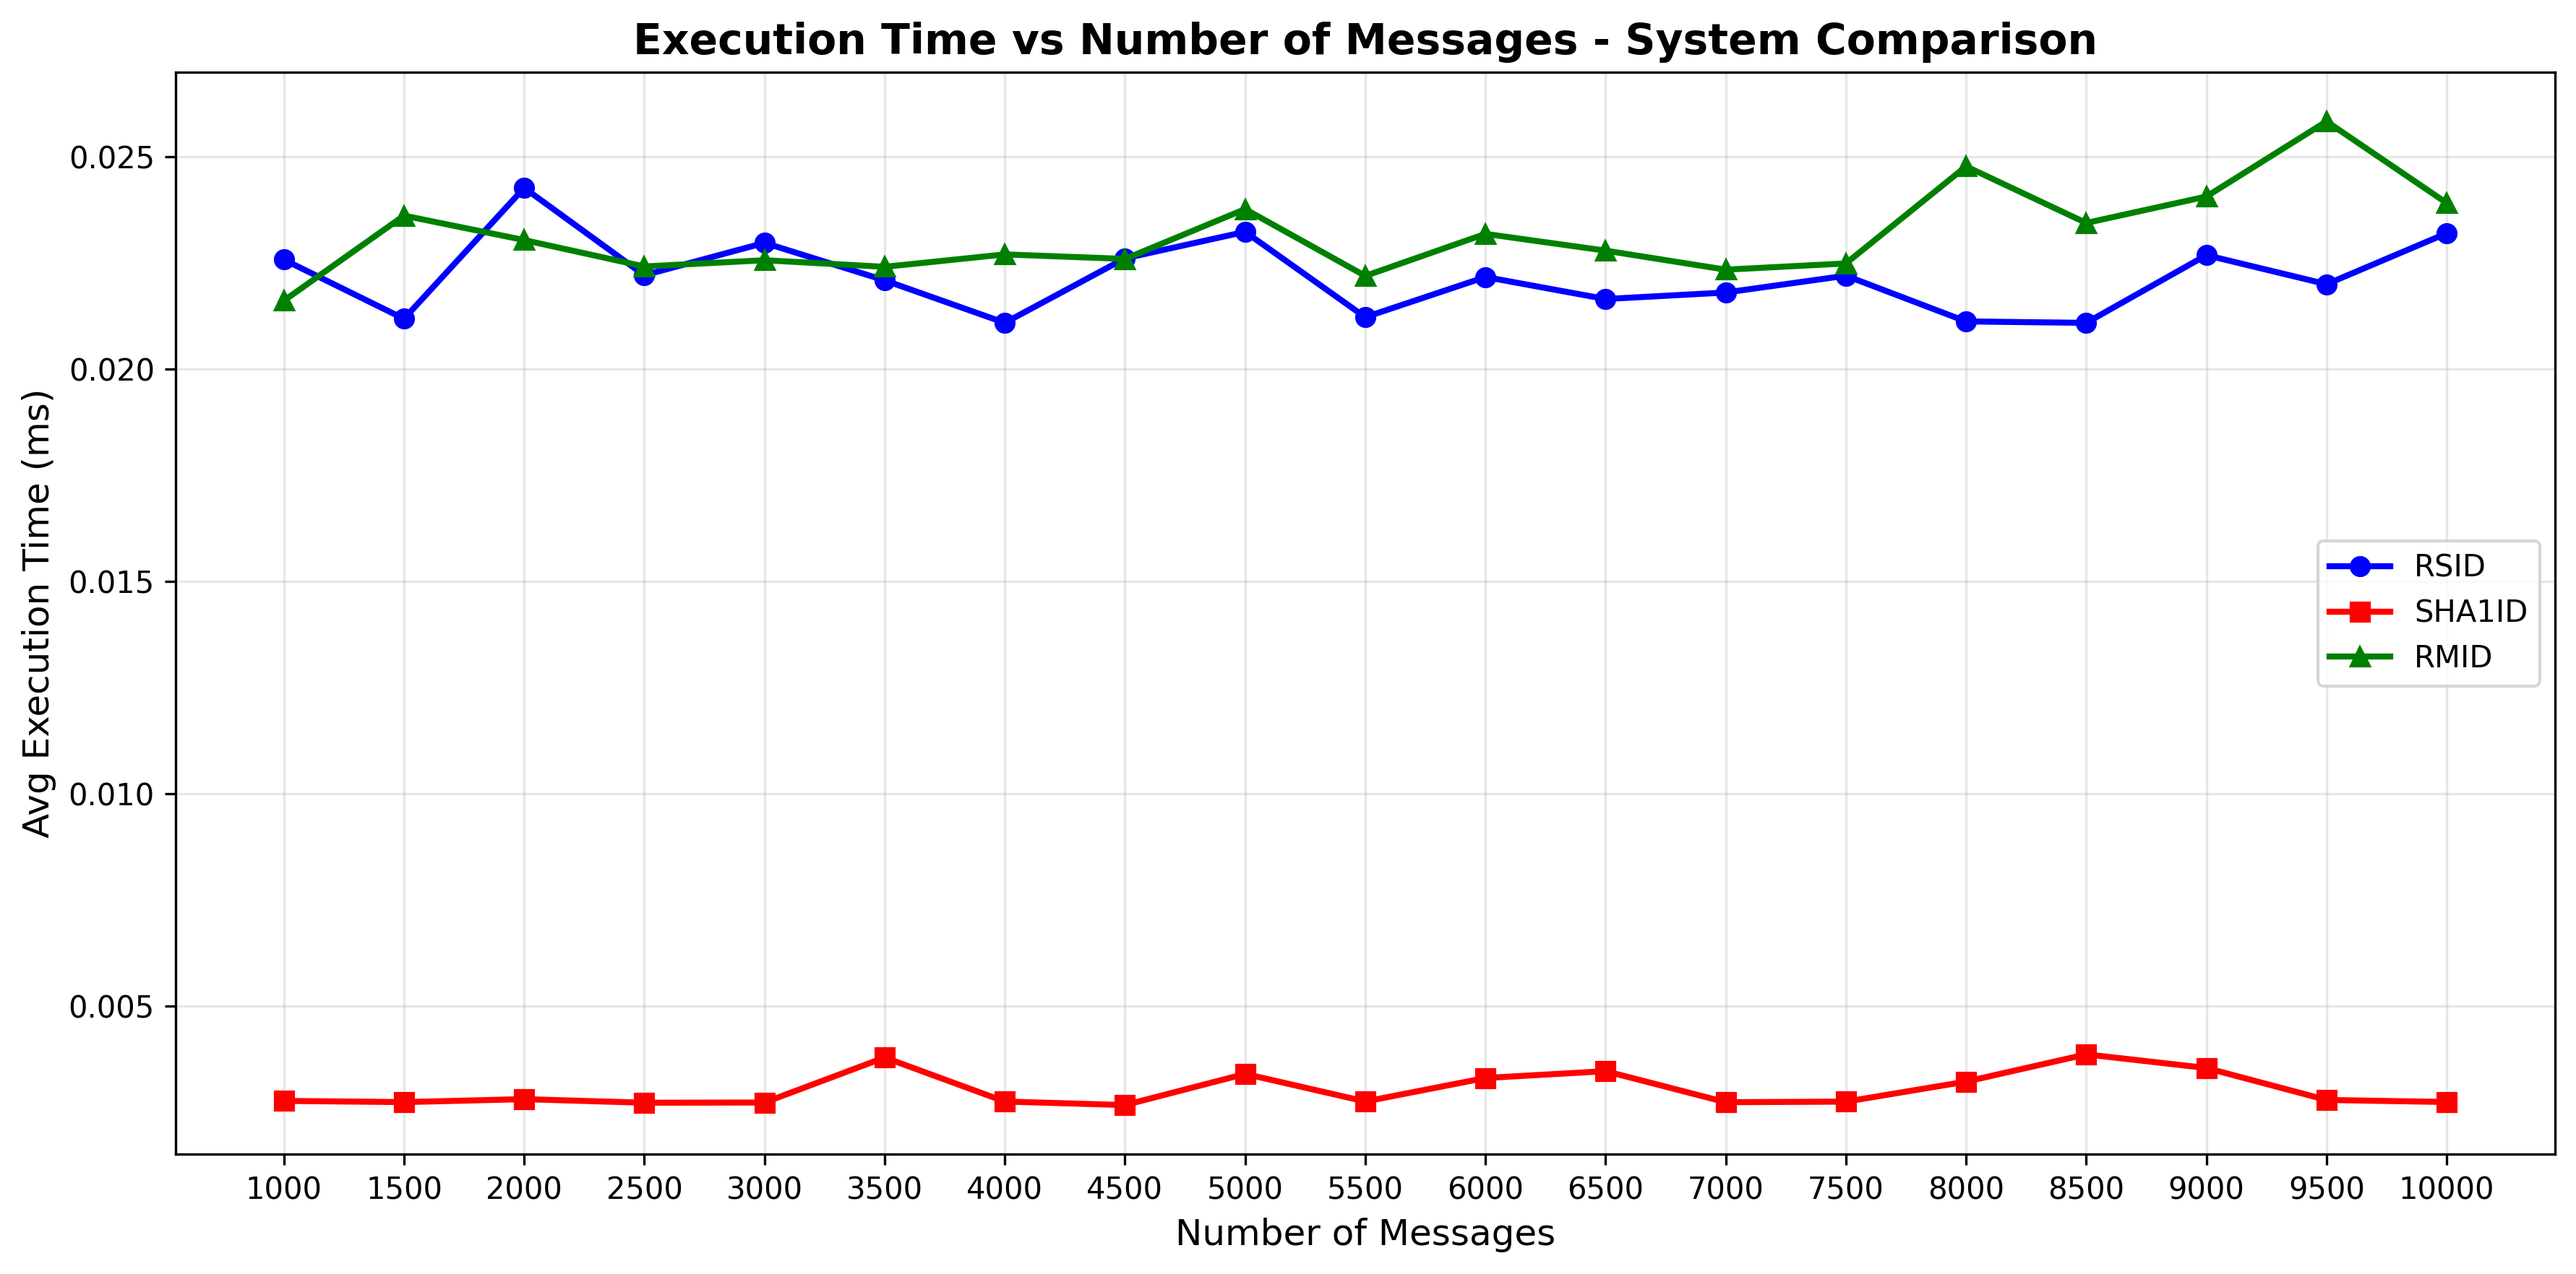
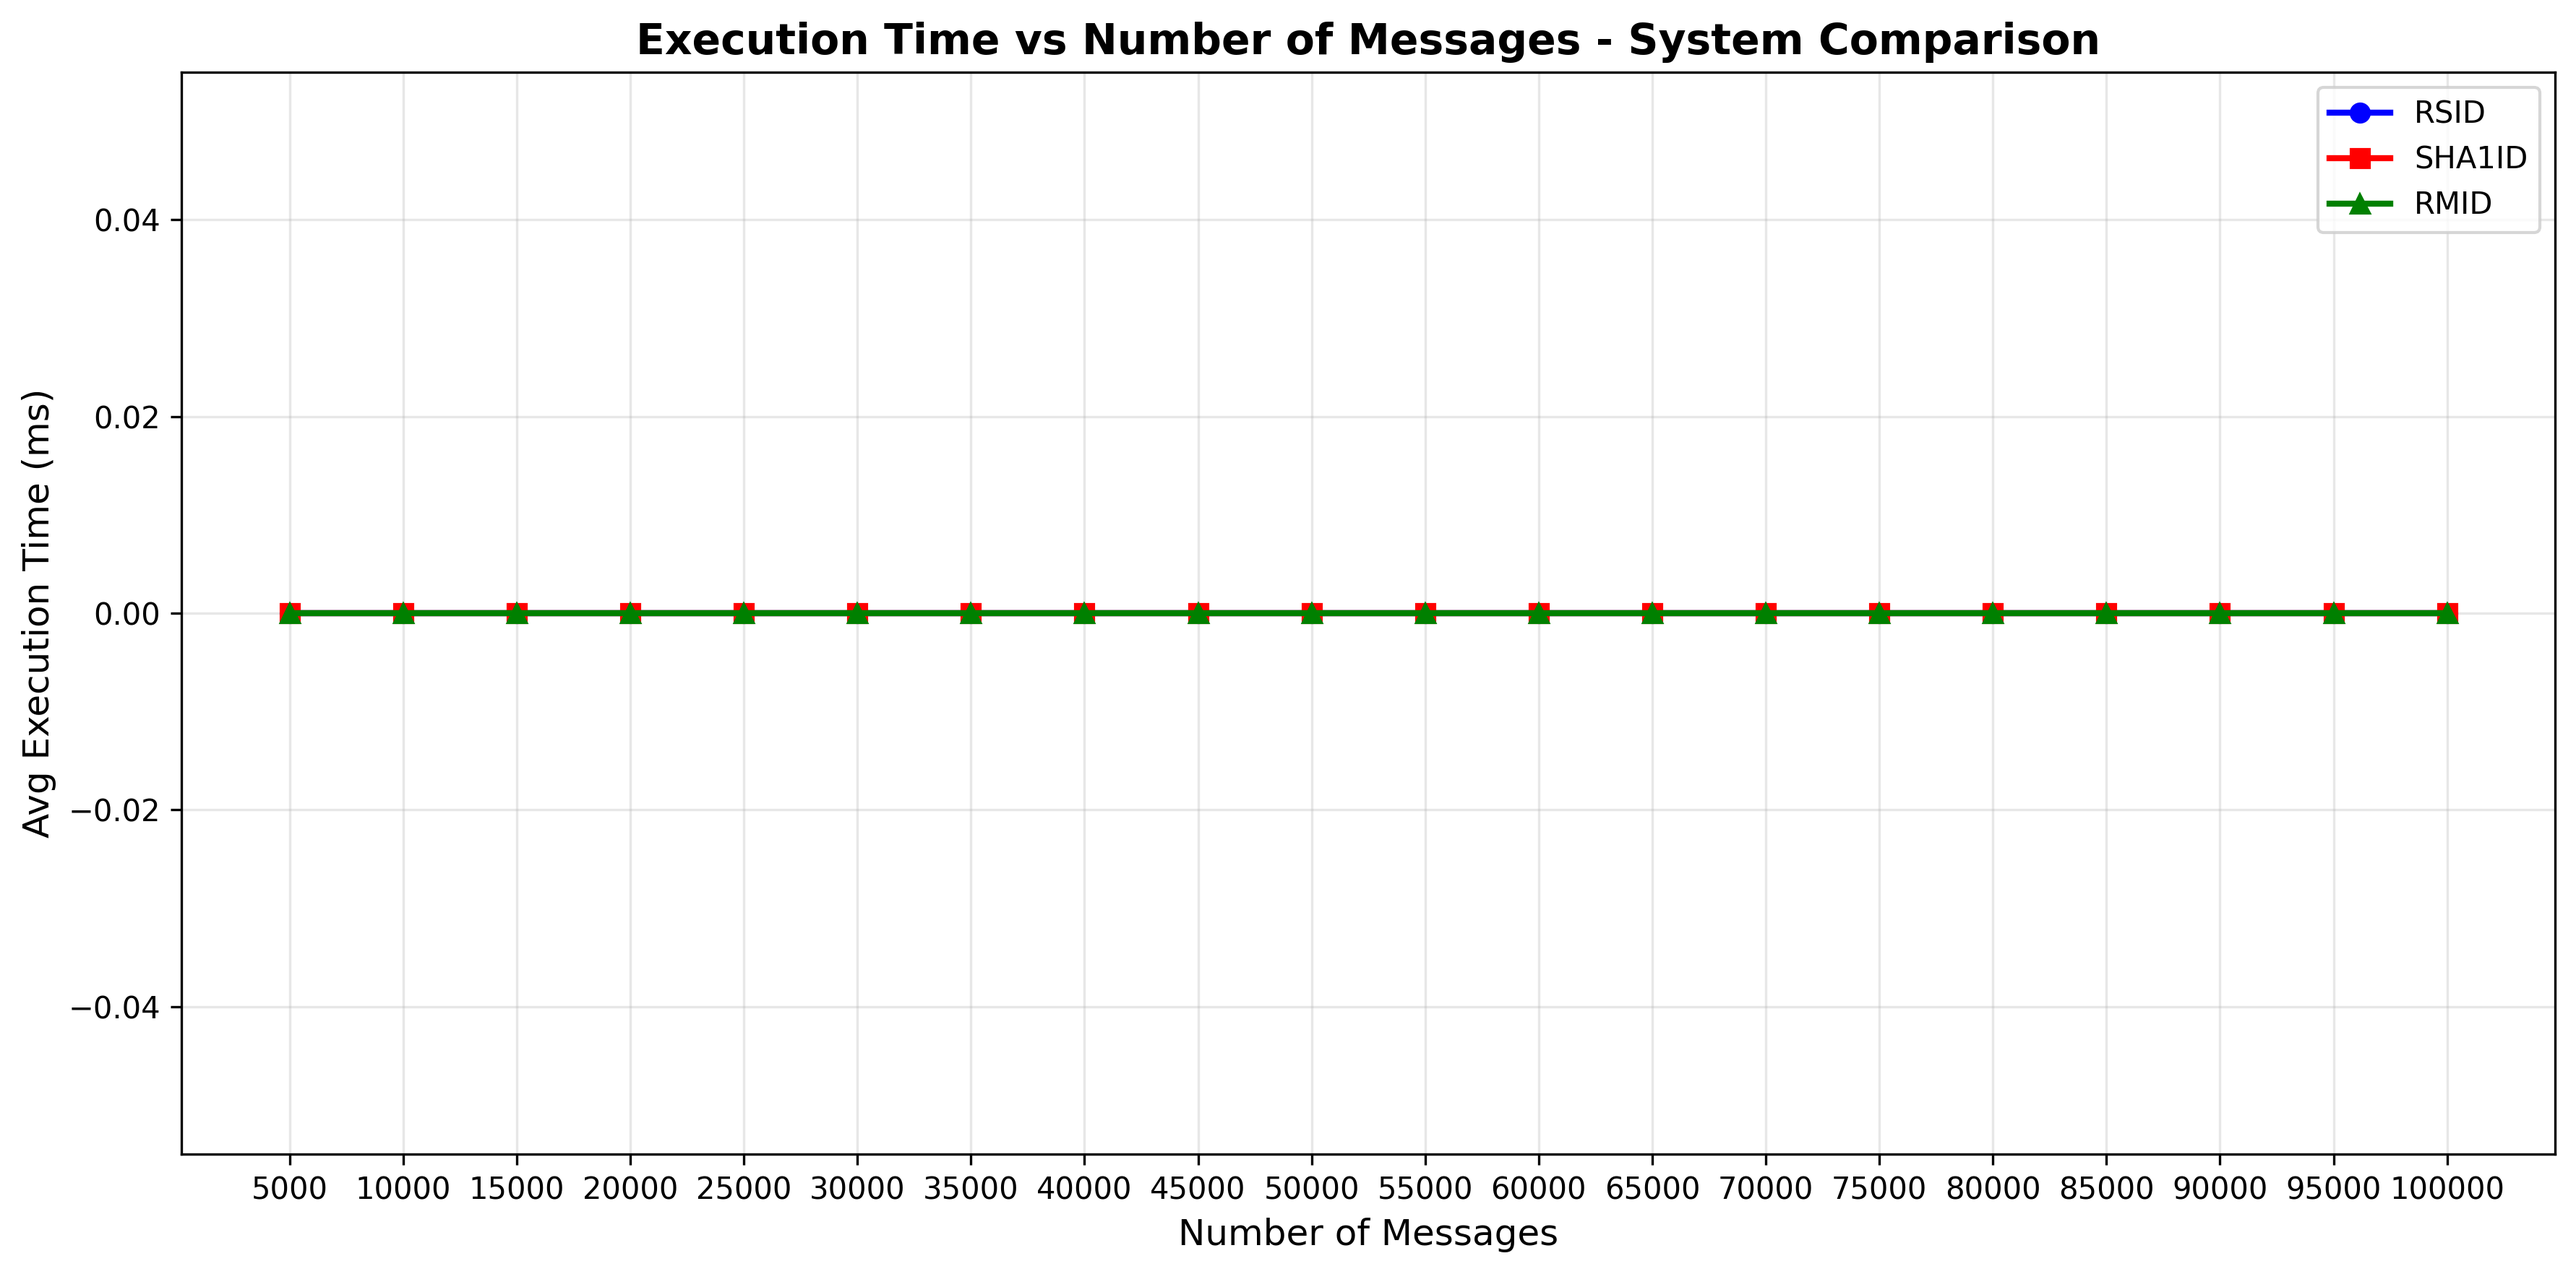
plots for number of messages with new parameters

diff --git a/analyses/num_messages_influence/num_messages.py b/analyses/num_messages_influence/num_messages.py
@@ -19,33 +19,37 @@ def main():
 
     # Range of vec_length values to test
     #num_messages = [10, 50, 100, 500, 1000, 5000, 10000]
-    num_messages = np.linspace(1000, 10000, num=19, dtype=int)
+    num_messages = np.arange(5000, 100001, 5000, dtype=int)
+    vec_len = 1250  # Fixed vector length for this test
+    trials = 100000  # Number of trials for each system evaluation
+    gf_exp = 8  # Galois Field exponent for the systems
 
     # Create systems as a dictionary for compare_systems
     systems = {
-        'RSID': create_id_system("RSID", {"gf_exp": 8, "tag_pos": 2}),
-        'SHA1ID': create_id_system("SHA1ID", {"gf_exp": 8}),
-        'RMID': create_id_system("RMID", {"gf_exp": 8, "tag_pos": 2, "rm_order": 1})
+        'RSID': create_id_system("RSID", {"gf_exp": gf_exp, "tag_pos": 2}),
+        'SHA1ID': create_id_system("SHA1ID", {"gf_exp": gf_exp}),
+        'RMID': create_id_system("RMID", {"gf_exp": gf_exp, "tag_pos": 2, "rm_order": 1})
     }
 
     # Store results for each system
-    system_results = {name: {'num_msg': [], 'reliability': [], 'exec_time': [], 'code_rate': []} for name in systems.keys()}
+    system_results = {name: {'num_msg': [], 'reliability': [], 'false_positives': [], 'exec_time': [], 'code_rate': []} for name in systems.keys()}
 
     for num_msg in num_messages:
         print(f"\nEvaluating with number of messages: {num_msg}")
-        messages = generate_test_messages(vec_len=32, gf_exp=8, count=num_msg)
+        messages = generate_test_messages(vec_len=vec_len, gf_exp=8, count=num_msg)
         
         metrics = IdMetrics.compare_systems(
             systems,
             messages,
-            num_trials=10000,
-            timing_iterations=1000,
-            p_true_positive=0.5
+            num_trials=trials,
+            timing_iterations=0,
+            p_true_positive=0
         )
 
         for system_name, system_metrics in metrics.items():
             system_results[system_name]['num_msg'].append(num_msg)
             system_results[system_name]['reliability'].append(system_metrics["reliability"])
+            system_results[system_name]['false_positives'].append(system_metrics["false_positives"])
             system_results[system_name]['exec_time'].append(system_metrics["avg_execution_time_ms"])
             system_results[system_name]['code_rate'].append(system_metrics["code_rate"])
 
@@ -70,6 +74,30 @@ def main():
     plt.tight_layout()
     plt.savefig('analyses/num_messages_influence/reliability_vs_num_messages.png', dpi=300, bbox_inches='tight')
 
+    # Plot false positives vs number of messages
+    plt.figure(figsize=(12, 6))
+    colors = ['blue', 'red', 'green', 'orange', 'purple']
+    markers = ['o', 's', '^', 'D', 'v']
+    for i, (system_name, results) in enumerate(system_results.items()):
+        plt.plot(results['num_msg'], results['false_positives'],
+                 marker=markers[i % len(markers)],
+                 color=colors[i % len(colors)],
+                 label=system_name,
+                 linewidth=2,
+                 markersize=6)
+    plt.title('False Positives vs Number of Messages - System Comparison', fontsize=14, fontweight='bold')
+    plt.xlabel('Number of Messages', fontsize=12)
+    plt.ylabel('False Positives', fontsize=12)
+    plt.grid(True, alpha=0.3)
+    plt.legend(fontsize=10)
+    plt.xticks(num_messages)
+
+    # Add textbox with trials, gf_exp, and vec_len
+    textstr = f'Trials: {trials}\nGF Exp: {gf_exp}\nVec Len: {vec_len}'
+    plt.gcf().text(0.95, 0.5, textstr, fontsize=10, verticalalignment='center', bbox=dict(facecolor='white', alpha=0.5))
+
+    plt.tight_layout()
+    plt.savefig('analyses/num_messages_influence/false_positives_vs_num_messages.png', dpi=300, bbox_inches='tight')
 
     # Plot execution time vs number of messages
     plt.figure(figsize=(12, 6))
